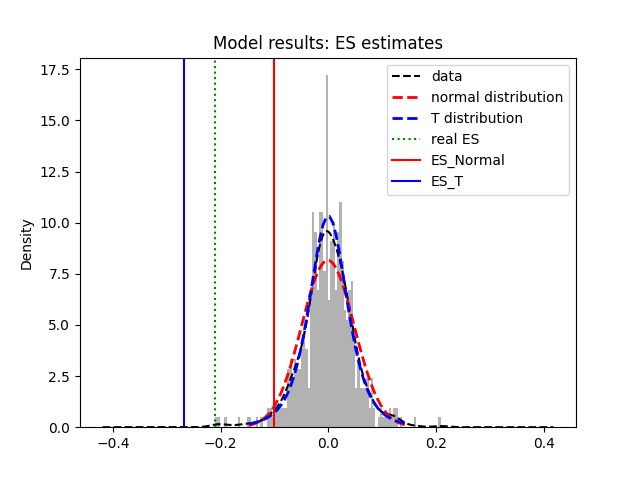
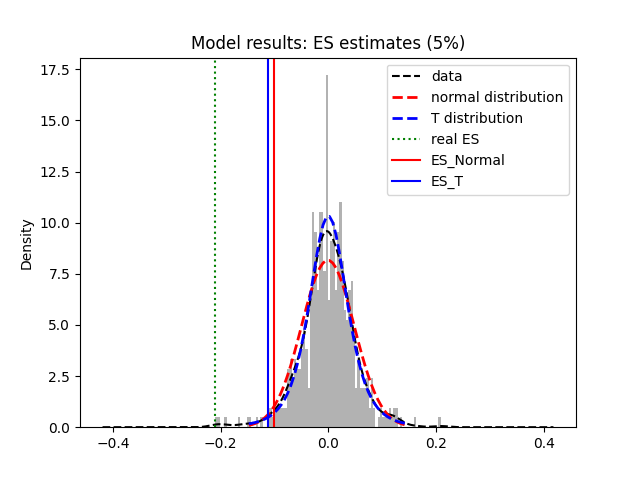
adjusted generalized t estimates

Changed region(s): [[0.2812, 0.0625, 0.7188, 0.125]]

diff --git a/Week05/Problem1.py b/Week05/Problem1.py
@@ -3,6 +3,10 @@ import numpy as np
 import scipy.stats as st
 import matplotlib.pyplot as plt
 
+import sys,os
+BASE_DIR = os.path.dirname(os.path.dirname(os.path.abspath(__file__))) 
+sys.path.append(BASE_DIR)
+from RiskMgmnt import getReturn, T_dist_fitter, covEstimate
 
 data = pd.read_csv("Week05\\problem1.csv")
 
@@ -31,20 +35,22 @@ normal_mu, normal_sigma, VaR, VaR_Normal, ES, ES_Normal = getVaR_ES_normal(data.
 #Fitting T distribution
 #======================================================
 def getVaR_ES_T(data, alpha = 0.05):
-    mu = data.mean().values
-    t_df, t_m, t_s = st.t.fit(data)
+    # t_m = data.mean().values
+    t_df, t_m, t_s = T_dist_fitter.getT_MLE(data)
     # simulate t distribution with estimated parameters
-    t = st.t.rvs(df = t_df, loc = t_m, scale = t_s, size = 10000)
+    t = st.t.rvs(df = t_df, loc = t_m, scale = t_s, size = 100000)
     tsim = pd.DataFrame({"tsim": t})
     
-    VaR = np.percentile(data, alpha) + mu
-    VaR_T = np.percentile(tsim, alpha)
-    temp = tsim[tsim <= VaR].dropna()
-    ES_T = temp.mean().values + mu
+    VaR_T = st.t.ppf(alpha, df = t_df, loc = t_m, scale = t_s)
+    # np.percentile(tsim, alpha)
+    temp = tsim[tsim <= VaR_T].dropna()
+    ES_T = temp.mean().values
     return t_df, t_m, t_s, VaR_T, ES_T
 
 t_df, t_m, t_s, VaR_T, ES_T = getVaR_ES_T(data.copy())
 
+print("VAR_NORMAL (5%): ", VaR_Normal, "ES_NORMAL: ", ES_Normal)
+print("VAR_T (5%): ", VaR_T, "ES_T: ", ES_T)
 
 #plotting VaR comparison
 plt.cla()
@@ -64,7 +70,7 @@ plt.axvline(VaR_Normal, color='r', label='VaR_Normal')
 plt.axvline(VaR_T, color='b', label='VaR_T')
 
 plt.legend()
-plt.title("Model results: VaR estimates")
+plt.title("Model results: VaR estimates (5%)")
 plt.savefig("Week05\\plots\\Problem1_VaR.png")
 
 
@@ -86,6 +92,53 @@ plt.axvline(ES_Normal, color='r', label='ES_Normal')
 plt.axvline(ES_T, color='b', label='ES_T')
 
 plt.legend()
-plt.title("Model results: ES estimates")
+plt.title("Model results: ES estimates (5%)")
 plt.savefig("Week05\\plots\\Problem1_ES.png")
 
+normal_mu, normal_sigma, VaR, VaR_Normal, ES, ES_Normal = getVaR_ES_normal(data.copy(), 0.01) 
+t_df, t_m, t_s, VaR_T, ES_T = getVaR_ES_T(data.copy(), 0.01)
+#plotting VaR comparison
+plt.cla()
+
+data.x.hist(bins=100,alpha=0.3,color='k',density=True)  
+data.x.plot(kind='kde',style='k--', label = "data")
+
+x = np.linspace(normal_mu - 3 * normal_sigma, normal_mu + 3 * normal_sigma) 
+y_normal = st.norm.pdf(x, loc = normal_mu, scale = normal_sigma)
+y_t = st.t.pdf(x, df = t_df, loc = t_m, scale = t_s)
+
+plt.plot(x, y_normal, "r--", linewidth=2, label = "normal distribution")
+plt.plot(x, y_t, "b--", linewidth=2, label = "T distribution")
+
+plt.axvline(VaR, color='g', ls =":", label='real VaR')
+plt.axvline(VaR_Normal, color='r', label='VaR_Normal')
+plt.axvline(VaR_T, color='b', label='VaR_T')
+
+plt.legend()
+plt.title("Model results: VaR estimates (1%)")
+plt.savefig("Week05\\plots2\\Problem1_VaR.png")
+
+
+#plotting ES comparison
+plt.cla()
+
+data.x.hist(bins=100,alpha=0.3,color='k',density=True)  
+data.x.plot(kind='kde',style='k--', label = "data")
+
+x = np.linspace(normal_mu - 3 * normal_sigma, normal_mu + 3 * normal_sigma) 
+y_normal = st.norm.pdf(x, loc = normal_mu, scale = normal_sigma)
+y_t = st.t.pdf(x, df = t_df, loc = t_m, scale = t_s)
+
+plt.plot(x, y_normal, "r--", linewidth=2, label = "normal distribution")
+plt.plot(x, y_t, "b--", linewidth=2, label = "T distribution")
+
+plt.axvline(ES, color='g', ls =":", label='real ES')
+plt.axvline(ES_Normal, color='r', label='ES_Normal')
+plt.axvline(ES_T, color='b', label='ES_T')
+
+plt.legend()
+plt.title("Model results: ES estimates (1%)")
+plt.savefig("Week05\\plots2\\Problem1_ES.png")
+
+print("VAR_NORMAL (1%): ", VaR_Normal, "ES_NORMAL: ", ES_Normal)
+print("VAR_T (1%): ", VaR_T, "ES_T: ", ES_T)

diff --git a/RiskMgmnt/getVaR.py b/RiskMgmnt/getVaR.py
@@ -1,13 +1,14 @@
 '''
 module for calculating VaR
 
-4 methods are implemented
+6 methods are implemented
 
 fitting normal distribution
 fitting normal with exponetially weighted covariance
 fitting t distribution with MLE
 historical simulation
 fitting generalized t distribution
+get VaR directly from series of data
 
 return the value of VaR (negative value means a loss)
 
@@ -15,6 +16,7 @@ return the value of VaR (negative value means a loss)
 import pandas as pd
 import numpy as np
 import scipy.stats as st
+import math
 from scipy.optimize import minimize
 
 #Normal distribution
@@ -70,3 +72,7 @@ def T(data, alpha = 0.05):
 
     return VaR_T
 
+def empirical(data, alpha = 0.05):
+    VaR_emp = np.quantile(data, alpha)
+    
+    return VaR_emp

diff --git a/RiskMgmnt/getES.py b/RiskMgmnt/getES.py
@@ -14,6 +14,7 @@ import numpy as np
 import pandas as pd
 import scipy.stats as st
 
+from RiskMgmnt import getVaR
 
 #Fitting normal distribution
 def normal(data, alpha = 0.05):
@@ -42,3 +43,10 @@ def T(data, alpha = 0.05):
     ES_T = temp["tsim"].mean() + mu
     
     return ES_T
+
+def empirical(data, alpha = 0.05):
+    VaR_emp = getVaR.empirical(data, alpha)
+    temp = data[data < VaR_emp].dropna()
+    ES_emp = temp.mean()
+    
+    return ES_emp
